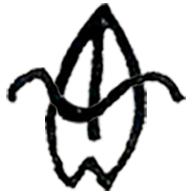
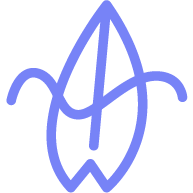
WIP content and UI enhancement

Changed region(s): [[0.0312, 0.0, 0.9688, 1.0]]

diff --git a/index.html b/index.html
@@ -5,7 +5,7 @@
   <title>Itsai Surf</title>
   <link rel="manifest" href="/manifest.json">
   <link rel="stylesheet" href="css/style.css">
-  <link href="https://fonts.googleapis.com/css2?family=Noto+Sans&display=swap" rel="stylesheet">
+  <link href="https://fonts.googleapis.com/css2?family=Maven+Pro:wght@400;500;600;700;800&family=Roboto:ital,wght@0,100;0,300;0,400;0,500;0,700;0,900;1,300;1,400;1,500;1,700&display=swap" rel="stylesheet">
   <link rel="icon" href="favicon.ico" type="image/x-icon" />
   <link rel="apple-touch-icon" href="images/hello-icon-152.png">
   <meta name="viewport" content="width=device-width, initial-scale=1.0">
@@ -18,7 +18,11 @@
 </head>
 <body class="fullscreen">
   <div class="container">
-    <img class="logo" alt="itsai surf" src="images/logo.png">
+
+    <div class="title-wrapper">
+      <img class="is-icon" src="images/is-icon.png">
+      <h1>Itsaii Surf</h1>
+    </div>
 
     <div class="tuto">
       <h2>Les tutos</h2>
@@ -26,68 +30,68 @@
 
           <div class="scrolling-wrapper">
 
-            <div class="card" data-link="takeoff.html">
+            <div class="card blue1bg" data-link="takeoff.html">
               <img src="images/takeoff.png">
-              <h4>Le takeoff</h4>
+              <p>Le takeoff</p>
             </div>
 
-            <div class="card" data-link="regles-prio.html">
+            <div class="card blue2bg" data-link="regles-prio.html">
               <img src="images/img1.png">
-              <h4>Les règles de prio</h4>
+              <p>Les règles de prio</p>
             </div>
 
-            <div class="card">
+            <div class="card blue3bg">
               <img src="images/img2.png">
-              <h4>Prendre de la vitesse</h4>
+              <p>Prendre de la vitesse</p>
             </div>
 
-            <div class="card">
+            <div class="card orange1bg">
               <img src="images/takeoff.png">
-              <h4>La rame</h4>
+              <p>La rame</p>
             </div>
 
-            <div class="card">
+            <div class="card rose1bg">
               <img src="images/img1.png">
-              <h4>Choisir une vague</h4>
+              <p>Choisir une vague</p>
             </div>
 
-            <div class="card">
+            <div class="card rose2bg">
               <img src="images/img2.png">
-              <h4>Surf & alimentation</h4>
+              <p>Surf & alimentation</p>
             </div>
 
           </div>
 
         <h3>Les bases</h3>
           <div class="scrolling-wrapper">
-            <div class="card">
+            <div class="card rose2bg">
               <img src="images/takeoff.png">
-              <h4>Le takeoff</h4>
+              <p>Le takeoff</p>
             </div>
 
-            <div class="card">
+            <div class="card rose1bg">
               <img src="images/img1.png">
-              <h4>La rame</h4>
+              <p>La rame</p>
             </div>
 
-            <div class="card">
+            <div class="card orange1bg">
               <img src="images/img2.png">
-              <h4>Choisir une vague</h4>
+              <p>Choisir une vague</p>
             </div>
 
-            <div class="card">
+            <div class="card blue3bg">
               <img src="images/takeoff.png">
-              <h4>Échauffements</h4>
+              <p>Échauffements</p>
             </div>
 
-            <div class="card">
+            <div class="card blue2bg">
               <img src="images/img1.png">
-              <h4>Étirements</h4>
+              <p>Étirements</p>
             </div>
 
-            <div class="card">
+            <div class="card blue1bg">
               <img src="images/img2.png">
-              <h4>Choisir sa planche</h4>
+              <p>Choisir sa planche</p>
             </div>
 
           </div>
@@ -95,29 +99,29 @@
 
         <h3>Inter et avancé</h3>
         <div class="scrolling-wrapper">
-            <div class="card">
+            <div class="card blue3bg">
               <img src="">
-              <h4>Le takeoff</h4>
+              <p>Le takeoff</p>
             </div>
 
-            <div class="card">
+            <div class="card rose1bg">
               <img src="">
-              <h4>La rame</h4>
+              <p>La rame</p>
             </div>
 
-            <div class="card">
+            <div class="card rose2bg">
               <img src="">
-              <h4>Choisir une vague</h4>
+              <p>Choisir une vague</p>
             </div>
 
-            <div class="card">
+            <div class="card blue2bg">
               <img src="">
-              <h4>Échauffements</h4>
+              <p>Échauffements</p>
             </div>
 
-            <div class="card">
+            <div class="card orange1bg">
               <img src="">
-              <h4>Étirements</h4>
+              <p>Étirements</p>
             </div>
           </div>
       
@@ -130,33 +134,33 @@
          <div class="scrolling-wrapper">
 
             <div class="card">
-              <img src="">
-              <h4>Débutant avec Margaux</h4>
+              <iframe width="160" height="96" src="https://www.youtube.com/embed/KCLWvAcPcPk" frameborder="0" allow="accelerometer; autoplay; encrypted-media; gyroscope; picture-in-picture" allowfullscreen></iframe>
+              <p>Débutant avec Margaux</p>
             </div>
 
             <div class="card">
-              <img src="">
-              <h4>Débutant vers intermédiaire avec Rodolphe</h4>
+              <iframe width="160" height="96" src="https://www.youtube.com/embed/KCLWvAcPcPk" frameborder="0" allow="accelerometer; autoplay; encrypted-media; gyroscope; picture-in-picture" allowfullscreen></iframe>
+              <p>Débutant vers intermédiaire avec Rodolphe</p>
             </div>
 
             <div class="card">
-              <img src="">
-              <h4>Intermédiaire +/- avec Anne</h4>
+              <iframe width="160" height="96" src="https://www.youtube.com/embed/KCLWvAcPcPk" frameborder="0" allow="accelerometer; autoplay; encrypted-media; gyroscope; picture-in-picture" allowfullscreen></iframe>
+              <p>Intermédiaire +/- avec Anne</p>
             </div>   
 
             <div class="card">
-              <img src="">
-              <h4>Intermédiaire avec Antonin</h4>
+              <iframe width="160" height="96" src="https://www.youtube.com/embed/KCLWvAcPcPk" frameborder="0" allow="accelerometer; autoplay; encrypted-media; gyroscope; picture-in-picture" allowfullscreen></iframe>
+              <p>Intermédiaire avec Antonin</p>
             </div>   
 
             <div class="card">
-              <img src="">
-              <h4>Avancé +/- avec Romi</h4>
+              <iframe width="160" height="96" src="https://www.youtube.com/embed/KCLWvAcPcPk" frameborder="0" allow="accelerometer; autoplay; encrypted-media; gyroscope; picture-in-picture" allowfullscreen></iframe>
+              <p>Avancé +/- avec Romi</p>
             </div>        
 
             <div class="card">
-              <img src="">
-              <h4>Avancé avec ?</h4>
+              <iframe width="160" height="96" src="https://www.youtube.com/embed/KCLWvAcPcPk" frameborder="0" allow="accelerometer; autoplay; encrypted-media; gyroscope; picture-in-picture" allowfullscreen></iframe>
+              <p>Avancé avec ?</p>
             </div>          
             </div>               
 
@@ -170,13 +174,13 @@
         <div class="scrolling-wrapper">
 
             <div class="card">
-              <img src="">
-              <h4>Tutoriel surf ucpa</h4>
+              <iframe width="160" height="96" src="https://www.youtube.com/embed/KCLWvAcPcPk" frameborder="0" allow="accelerometer; autoplay; encrypted-media; gyroscope; picture-in-picture" allowfullscreen></iframe>
+              <p>Tutoriel surf ucpa</p>
             </div>
 
             <div class="card">
-              <img src="">
-              <h4>How to rip</h4>
+              <iframe width="160" height="96" src="https://www.youtube.com/embed/KCLWvAcPcPk" frameborder="0" allow="accelerometer; autoplay; encrypted-media; gyroscope; picture-in-picture" allowfullscreen></iframe>
+              <p>How to rip</p>
             </div>
 
     </div>

diff --git a/css/style.css b/css/style.css
@@ -1,5 +1,6 @@
 body {
-  font-family: 'Noto Sans', sans-serif;
+  font-family: 'Roboto', sans-serif;
+
 }
 
 /* Make content area fill the entire browser window */
@@ -17,25 +18,34 @@ html,
   margin: auto;
 }
 
+h1 {
+	padding: 0;
+	margin: 24px 0 0 0;
+}
+
 h2 {
-	padding: 32px 8px 4px 8px;
-	margin: 0;
+	padding: 0;
+	margin: 32px 0 0 0;
+	font-weight: 400;
 }
 
 h3{
-	padding: 24px 8px 8px 8px;
-	margin: 0;
+	padding: 0;
+	margin: 24px 0 0 0;
+	font-weight: 300;
+	color: #99A0A5;
 }
 
 p {
-	padding: 8px 8px 8px 8px;
+	font-family: 'Maven Pro', sans-serif;
+	padding: 16px 0 0 0;
 	margin: 0;
 }
 
-img.logo {
-	width: 196px;
-	margin-top: 24px;
-	margin-left: 8px;
+.is-icon {
+  width: 40px;
+  height: 40px;
+  margin: 20px 8px 0 0;
 }
 
 .title {
@@ -48,12 +58,41 @@ img.logo {
   overflow-x: auto;
 }
 
-  .card {
-    flex: 0 0 auto;
+.title-wrapper {
+  display: flex;	
+}
+
+.card {
+	flex: 0 0 auto;
     width: 160px;
-    margin-right: 16px; 
+    margin: 8px 16px 0 0;
+    border-radius: 8px;
     border: 1px solid #f2f2f2;
   }
+
+.blue1bg {
+	background-color: #4C64F6;
+}
+
+.blue2bg {
+	background-color: #7783F7;
+}
+
+.blue3bg {
+	background-color: #110F8D;
+}
+
+.orange1bg {
+	background-color: #F4A93C;
+}
+
+.rose1bg {
+	background-color: #D15074;
+}
+
+.rose2bg {
+	background-color: #E07AD6;
+}
 
 .scrolling-wrapper {
   -webkit-overflow-scrolling: touch;
@@ -63,15 +102,30 @@ img.logo {
   display: none;
 }
 
-.card > img {
-	width: 160px;
-	height: 96px;
+.card.blue1bg > p, .card.blue2bg > p, .card.blue3bg > p, .card.orange1bg > p, .card.rose1bg > p, .card.rose2bg > p {
+	color: #ffffff;
+	font-weight: 400;
+	text-align: center;	
+	margin: 0px 8px 8px 8px;	
 }
 
-.card > h4 {
-	margin: 8px;
-	padding: 0;
-	font-size: 0.8em; 
+.card.blue1bg, .card.blue2bg, .card.blue3bg, .card.orange1bg, .card.rose1bg, .card.rose2bg {
+	border: none;	
+}
+
+.card > img {
+	margin-top: 16px;
+	width: 160px;
+	height: 96px;	
+}
+
+.card > iframe {
+	border-radius: 8px 8px 0 0;
+}
+
+.card > p {
+	margin: 0;
+	padding: 8px;
 }
 
 [data-link] {
@@ -79,7 +133,7 @@ img.logo {
 }
 
 footer {
-	padding: 32px 8px; 
+	padding: 120px 0 42px 0; 
 }
 
 

diff --git a/takeoff.html b/takeoff.html
@@ -31,16 +31,18 @@
         <div class="scrolling-wrapper">
 
             <div class="card">
-              <img src="">
-              <h4>Tutoriel surf ucpa</h4>
+              <iframe width="160" height="96" src="https://www.youtube.com/embed/KCLWvAcPcPk" frameborder="0" allow="accelerometer; autoplay; encrypted-media; gyroscope; picture-in-picture" allowfullscreen></iframe>
+              <p>Tutoriel surf ucpa</p>
             </div>
 
             <div class="card">
-              <img src="">
-              <h4>How to rip</h4>
+              <iframe width="160" height="96" src="https://www.youtube.com/embed/KCLWvAcPcPk" frameborder="0" allow="accelerometer; autoplay; encrypted-media; gyroscope; picture-in-picture" allowfullscreen></iframe>
+              <p>How to rip</p>
             </div>
 
     </div>
+
+  </div>
 
 
 
